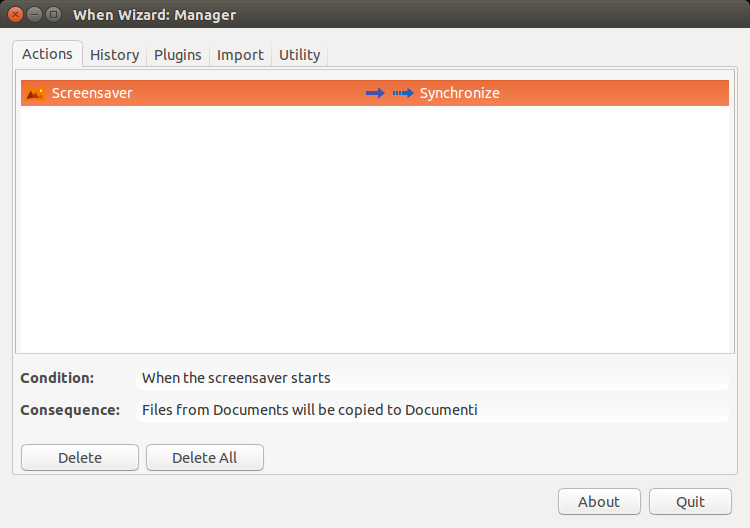
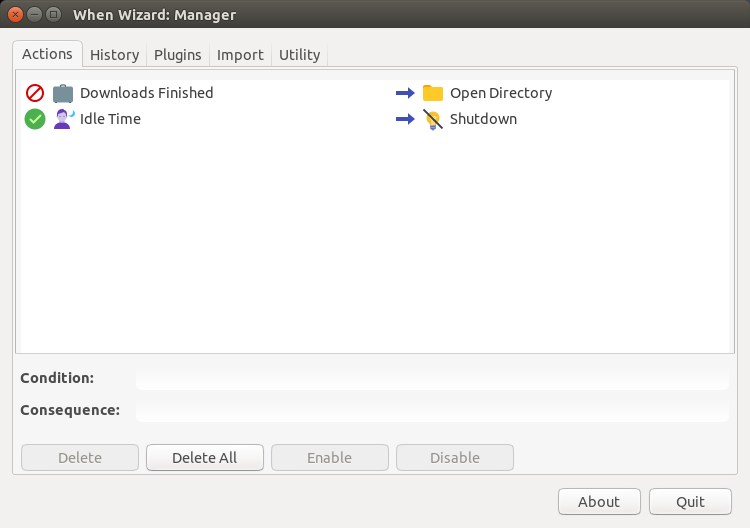
Add enable/disable reference for wizard

diff --git a/wizard.rst b/wizard.rst
@@ -136,7 +136,7 @@ closing the window). If the *Forward* button is clicked, the action is
 registered in **When**.
 
 
-Removing Actions
+Managing Actions
 ================
 
 Actions can be removed through the **When Wizard Manager** application. On
@@ -148,6 +148,15 @@ wizard interface: [#whenleftalone]_
 To remove an action it is sufficient to select it from the list (a more
 detailed description is shown under the list) and click the *Delete* button.
 After confirmation, the action is completely removed from the system.
+
+If the user only wants to suspend checks and consequences for an action, the
+first page of the manager application also gives the possibility to just
+*disable* (and possibly *reenable*) a previously defined action: selecting
+the appropriate line in the list (enabled actions are marked with a green
+circle containing a tick mark) and clicking the *Disable* button causes the
+action to be ineffective without deleting it. It can be enabled again at a
+later time when needed, by just selecting it and clicking the *Enable*
+button.
 
 
 Other Uses for the When Wizard Manager
